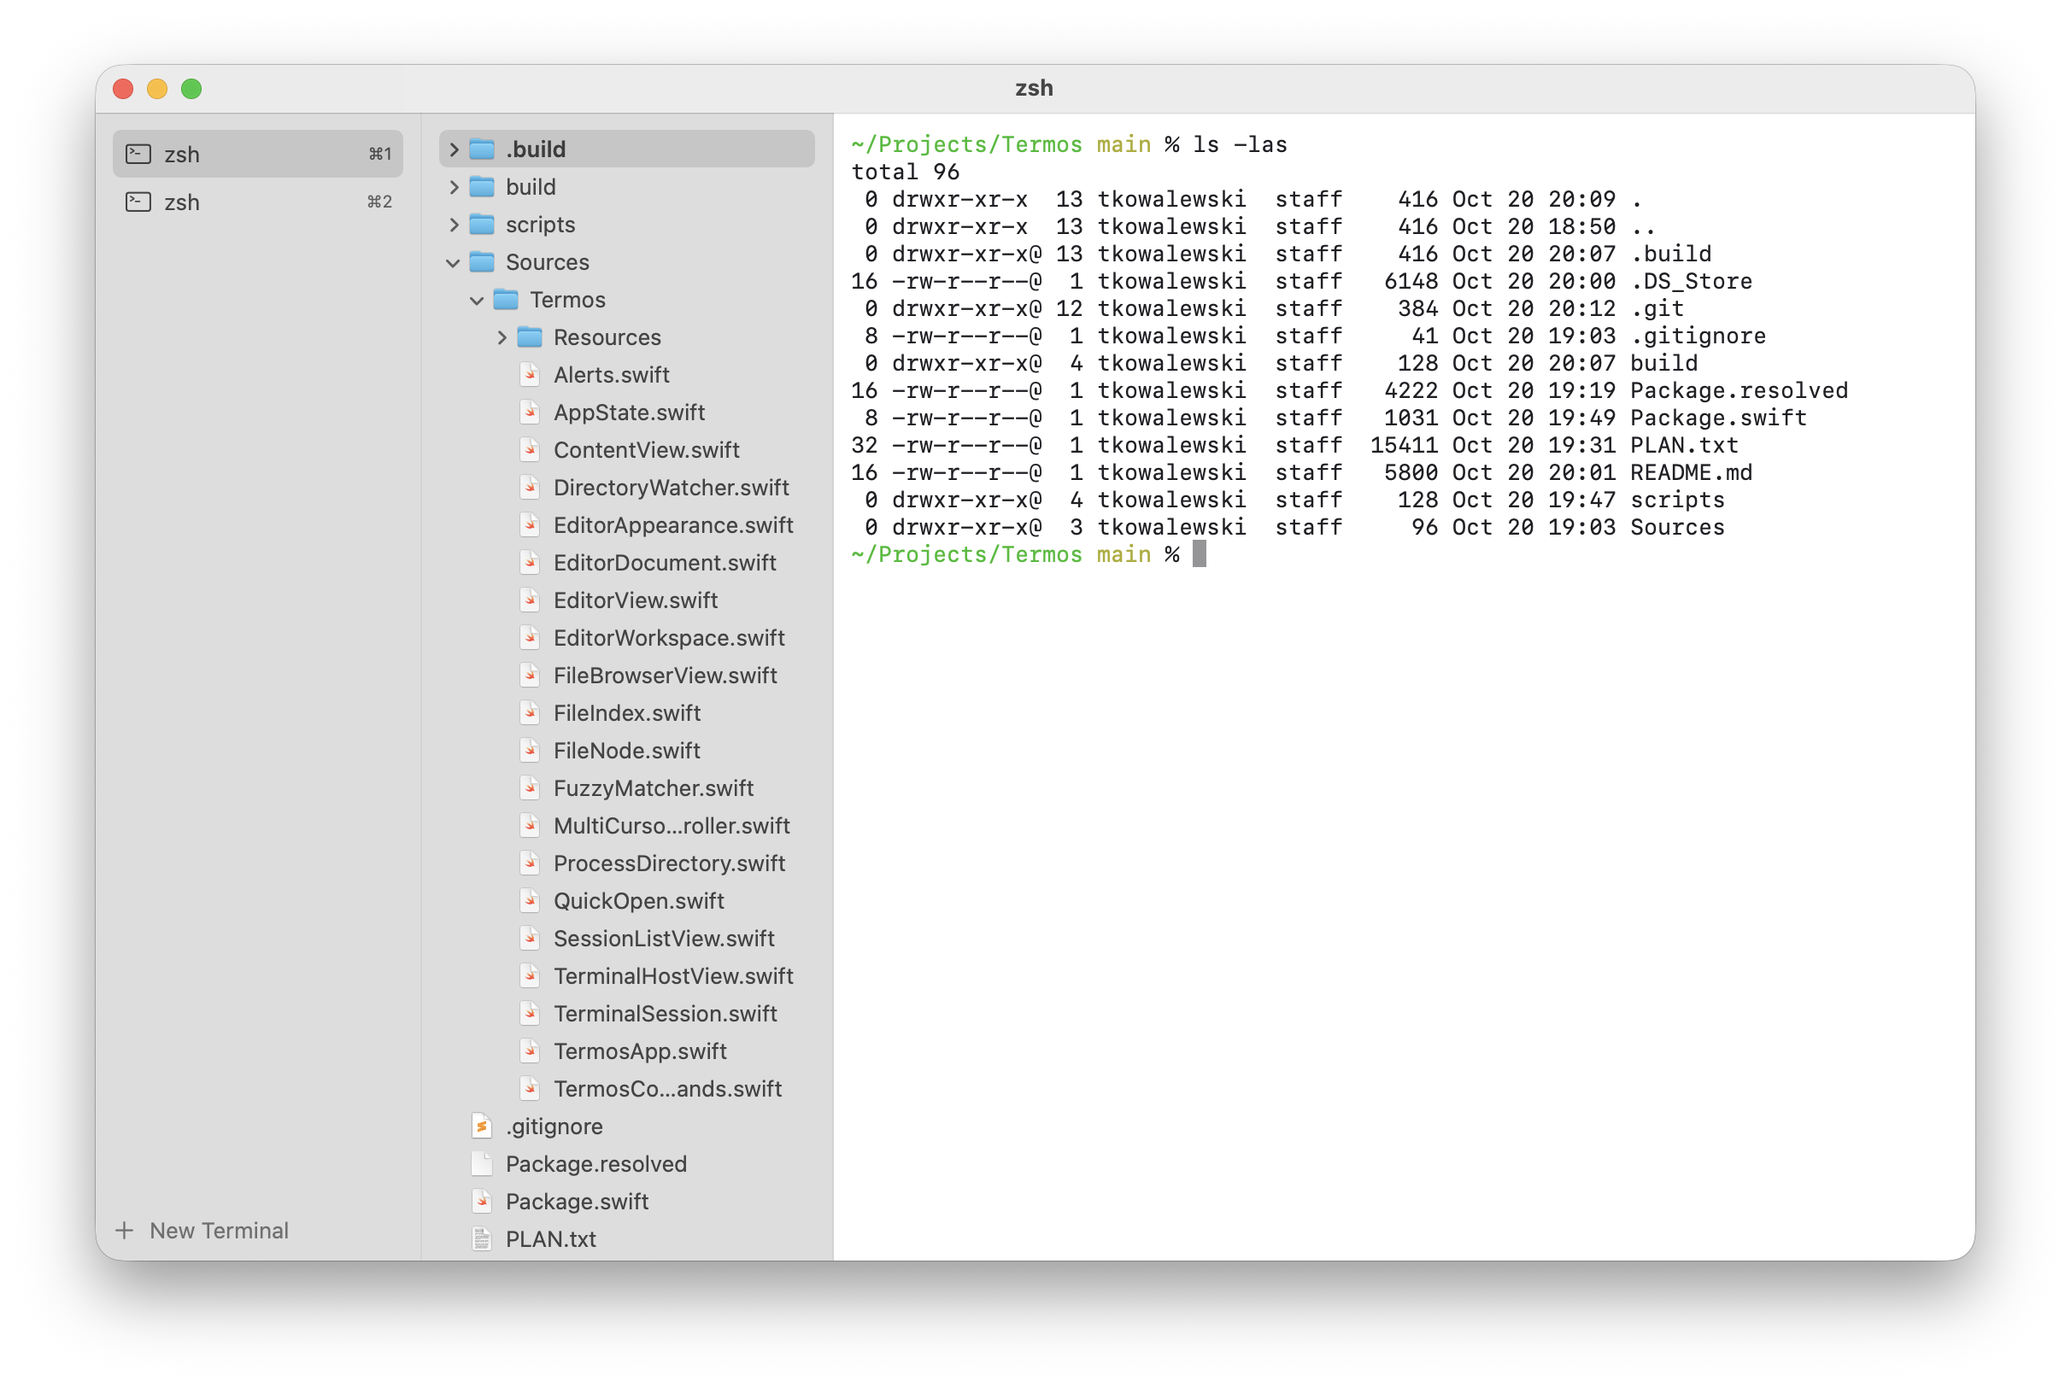
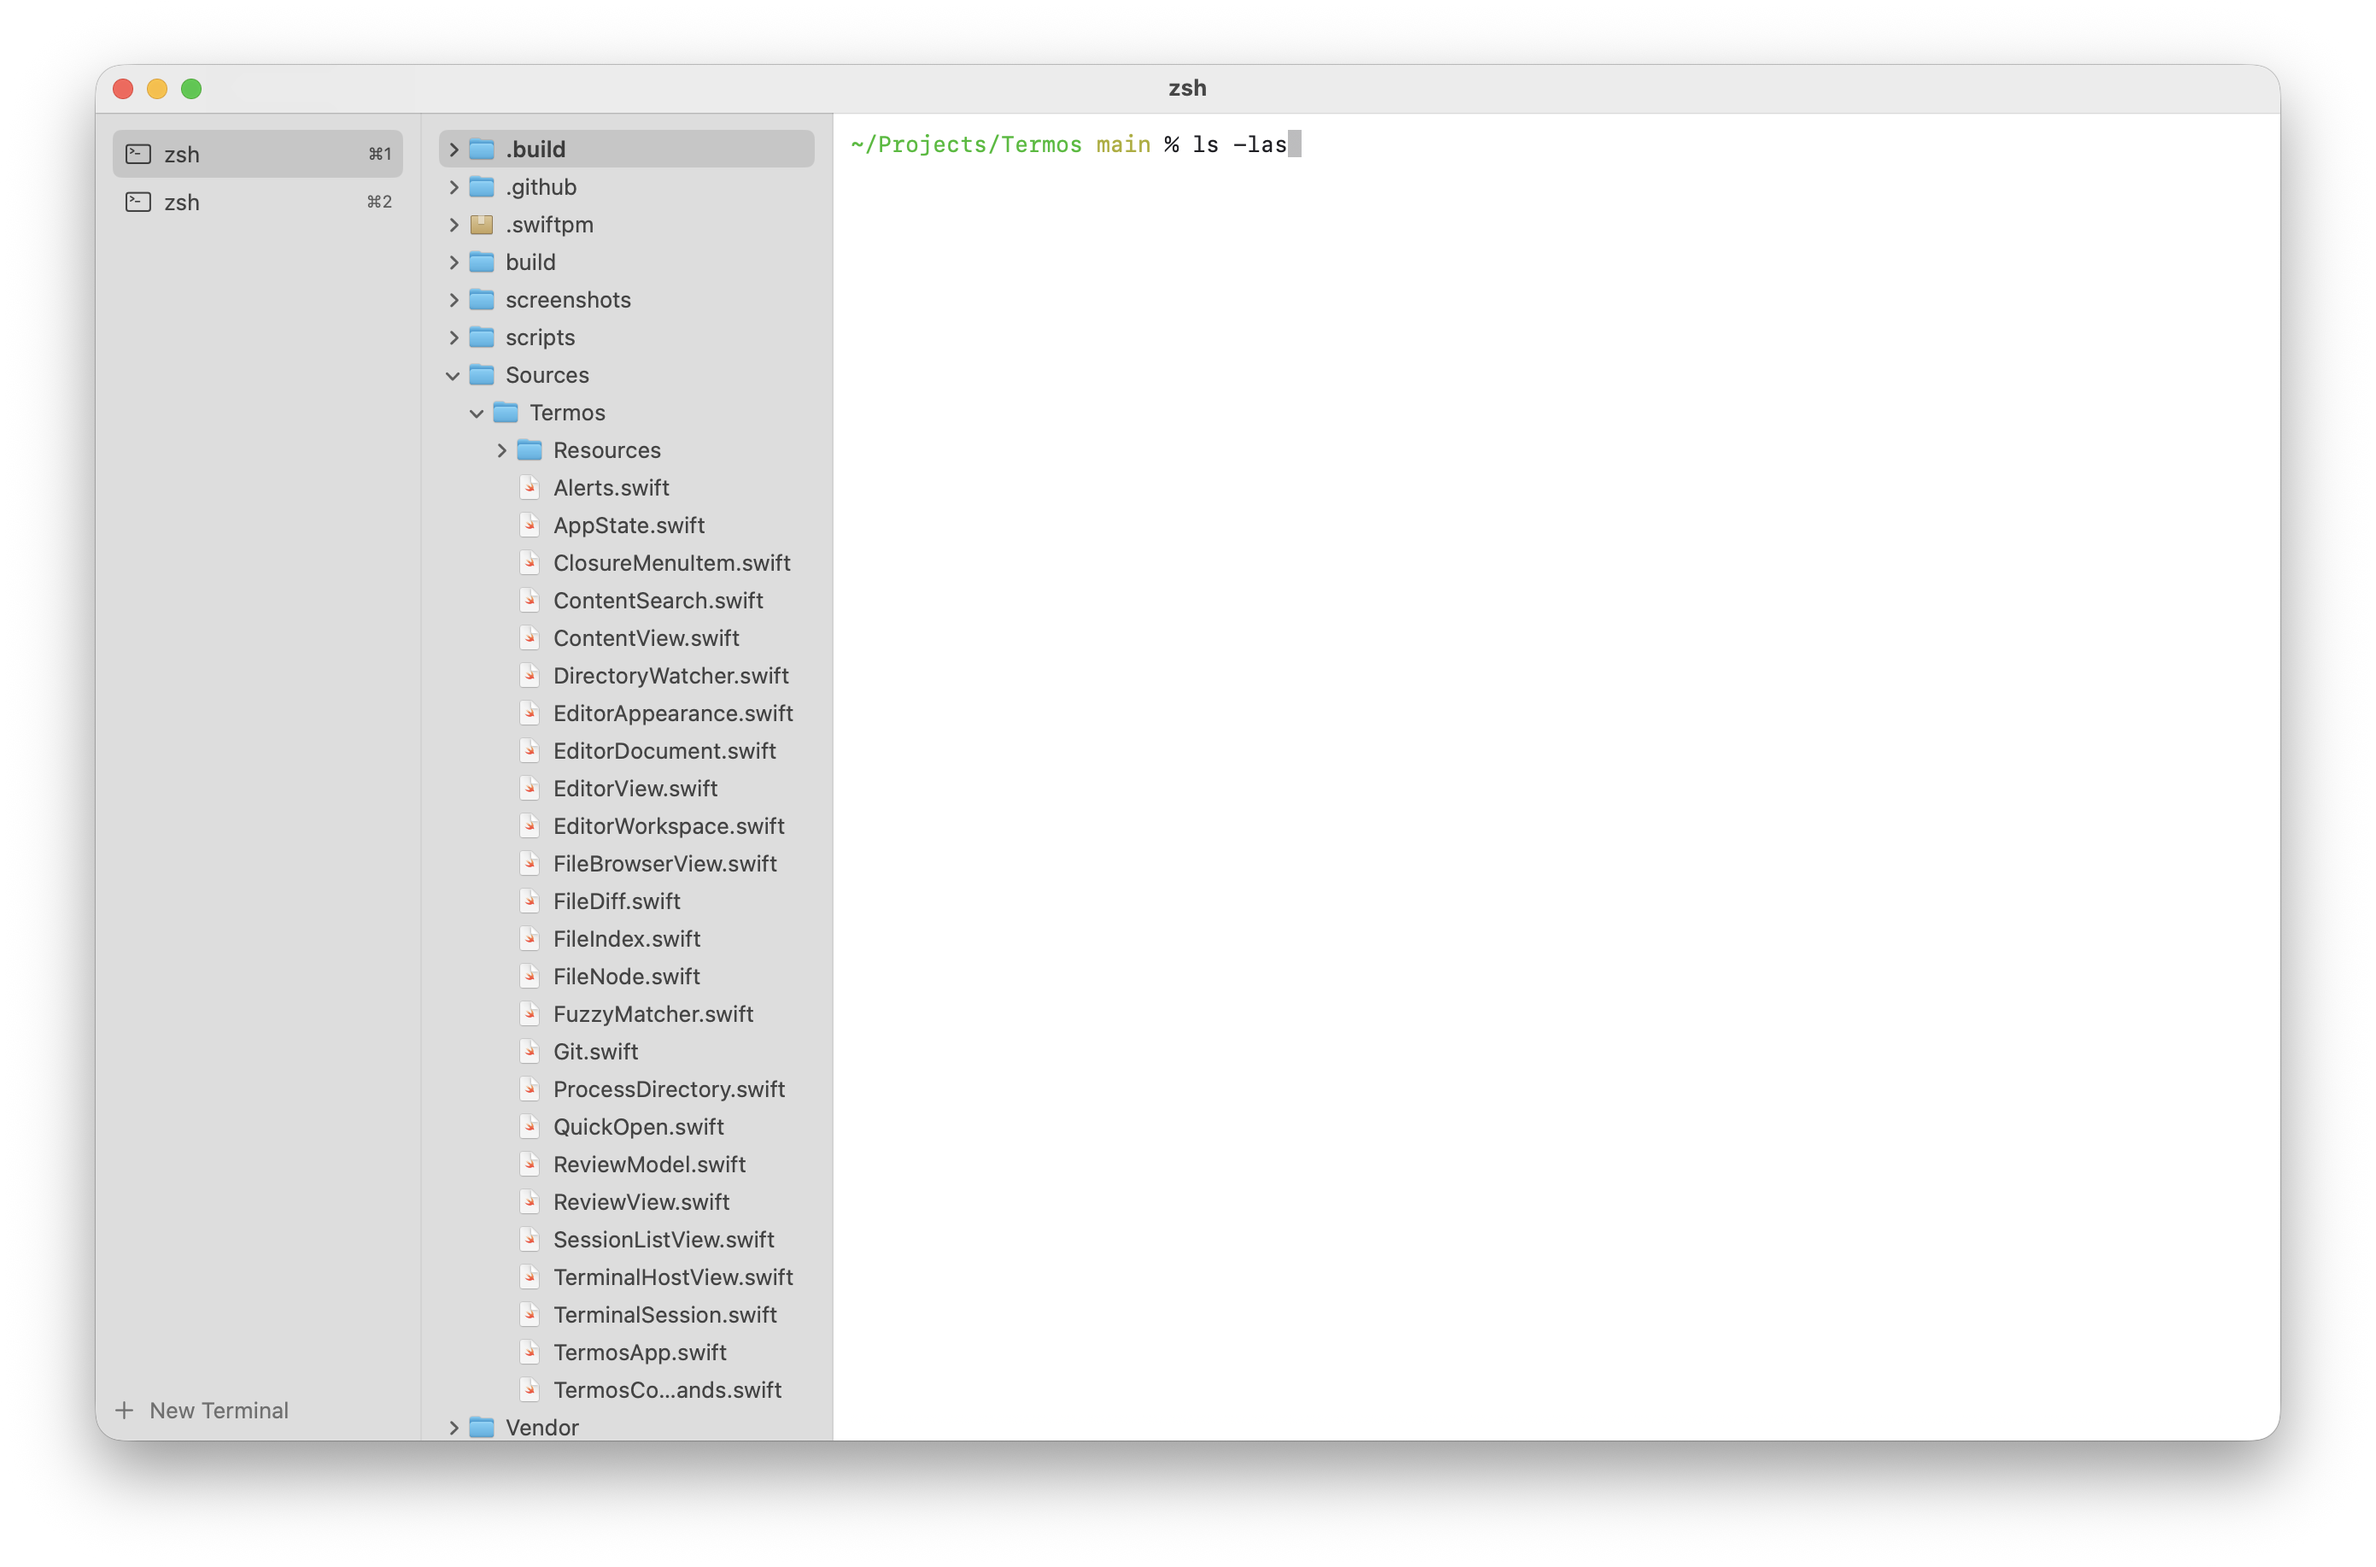
Update README and screenshots

Changed region(s): [[0.0309, 0.0308, 0.9592, 0.9236], [0.0309, 0.0308, 0.0928, 0.1539]]

diff --git a/README.md b/README.md
@@ -4,11 +4,15 @@ Termos is a macOS terminal with a built-in file browser and code editor.
 
 The main window is an ordinary terminal. When you need to look at or change a file, you open the file browser, which shows the terminal's current working directory. Click a file and it opens in an editor in place of the terminal. Several terminals can run side by side, and each one keeps its own open files.
 
-![A terminal with the file browser showing its working directory](screenshots/Termos1.png)
+![Terminal](screenshots/Termos1.png)
 
-![The editor with open tabs and syntax highlighting, next to the file browser](screenshots/Termos2.png)
+![Editor](screenshots/Termos2.png)
 
-![Go to file (⌘P) over the terminal, listing files of the working directory](screenshots/Termos3.png)
+![File search](screenshots/Termos3.png)
+
+![Code search](screenshots/Termos4.png)
+
+![Review changes](screenshots/Termos5.png)
 
 ## Features
 
@@ -158,4 +162,3 @@ swift scripts/make-icon.swift
 | `.github/workflows/release.yml` | Publishes a GitHub release for each `v*` tag |
 | `scripts/make-icon.swift` | Draws the app icon |
 | `CHANGELOG.md` | Notable changes in each version |
-| `PLAN.txt` | Original implementation plan (in Polish) |
